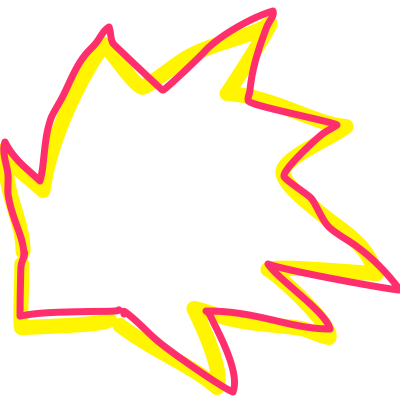
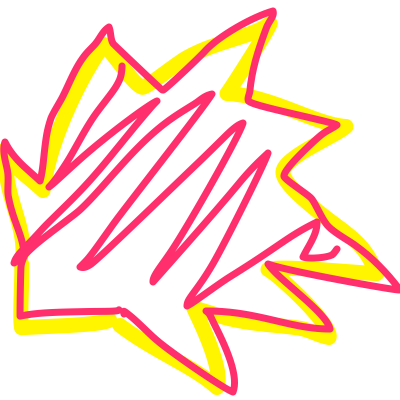
update the hit pic delay time

Changed region(s): [[0.03, 0.15, 0.87, 0.78]]

diff --git a/ball/pikaBall.py b/ball/pikaBall.py
@@ -40,6 +40,7 @@ class PikaBall(pygame.sprite.Sprite):
                                 self.width, self.height)
 
         # add hit picture
+        self.ifHitIndex = 0
         self.ifHitPic = False
         self.hitPos = [0, 0]
         self.imageHitPic = loadImg('ball/pa.png', 100, 100)
@@ -76,7 +77,12 @@ class PikaBall(pygame.sprite.Sprite):
                 self.moveOrigin(random.randint(0, 1))
 
     def update(self, clickButton, wallList, pikaList, pos=""):
-        self.ifHitPic = False
+        if self.ifHitPic:
+            self.ifHitIndex += 1
+            if self.ifHitIndex % 5 == 0:
+                self.ifHitPic = False
+                self.ifHitIndex = 0
+
         self.checkMovement(clickButton, wallList, pikaList, pos)
         self.checkPlace()
         self.historyPos[self.historyPosIndex] = (self.rect.x, self.rect.y)
